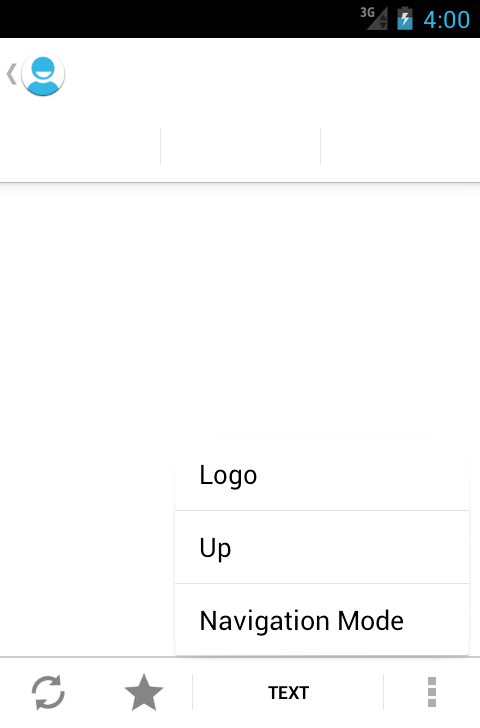
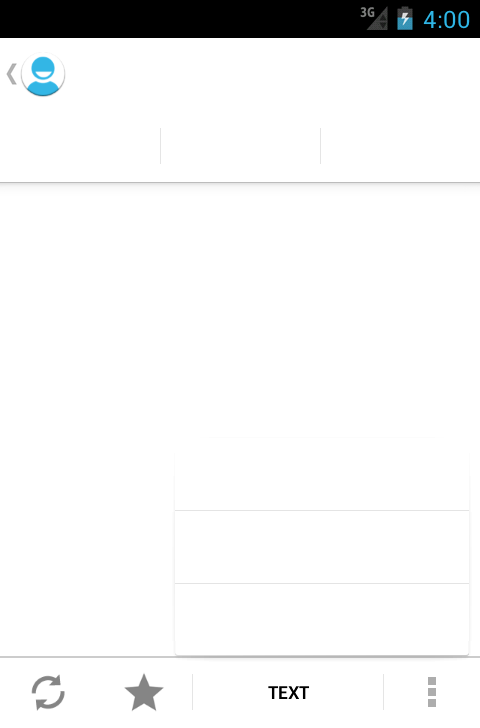
support for changing popup text color

Changed region(s): [[0.4062, 0.8462, 0.8438, 0.8764], [0.4062, 0.6346, 0.5312, 0.6648], [0.4062, 0.7253, 0.4688, 0.7857]]

diff --git a/src/html/index.html b/src/html/index.html
@@ -424,6 +424,7 @@
         'tabTextColor': '#000000',
       	'secondaryColor':'#D6D6D6',
       	'tertiaryColor':'#F2F2F2',
+        'popupTextColor': '#000000',
       	'accentColor':'#33B5E5',
       	'actionbarstyle':'solid',
       	'cabBackColor':'#FFFFFF',
@@ -437,6 +438,7 @@
         'tabTextColor': '#ffffff',
       	'secondaryColor':'#151515',
       	'tertiaryColor':'#303030',
+        'popupTextColor': '#ffffff',
       	'accentColor':'#33B5E5',
       	'actionbarstyle':'transparent',
       	'cabBackColor':'#002E3E',
@@ -450,6 +452,7 @@
         'tabTextColor': '#ffffff',
       	'secondaryColor':'#555555',
       	'tertiaryColor':'#303030',
+        'popupTextColor': '#ffffff',
       	'accentColor':'#33B5E5',
       	'actionbarstyle':'solid',
       	'cabBackColor':'#002E3E',
@@ -505,6 +508,7 @@
         var neutralPressed = values['neutralPressed'];
         var abTextColor = values['abTextColor'];
         var tabTextColor = values['tabTextColor'];
+        var popupTextColor = values['popupTextColor'];
         
         if (baseThemeSetting == null) {
         	//console.log('theme null');
@@ -547,6 +551,7 @@
         	'actionbar_base':((baseTheme == 'light_dark') ? '.Light' : ((baseTheme == 'light') ? '.Light' : '')),
           'actionbar_text_color': abTextColor.color,
           'tab_text_color': tabTextColor.color,
+          'popup_text_color': popupTextColor.color,
         	'inverse_attrs':inverseAttrs,
         	'inverse_attrs_sherlock':inverseAttrsSherlock
         };
@@ -805,6 +810,7 @@
 
       var abTextColor = values['abTextColor'].color;
       var tabTextColor = values['tabTextColor'].color;
+      var popupTextColor = values['popupTextColor'].color;
 			
 			tmpCtxAB.save();
 			tmpCtxAB.globalCompositeOperation = 'source-over';
@@ -888,6 +894,11 @@
       outCtx.fillText("TAB 1", 56, 153);
       outCtx.fillText("TAB 2", 216, 153);
       outCtx.fillText("TAB 3", 377, 153);
+      outCtx.fillStyle = popupTextColor;
+      outCtx.font = "26px sans-serif";
+      outCtx.fillText("Navigation Mode", 201, 629);
+      outCtx.fillText("Up", 201, 556);
+      outCtx.fillText("Logo", 201, 483);
       outCtx.restore();
 
 
@@ -997,6 +1008,11 @@
             title: 'Popup color',
             helpText: 'Overflow menu, submenu and spinner panel background.',
             defaultValue: DEFAULT_COLORS_LIGHT['tertiaryColor']
+          }),
+          new studio.forms.ColorField('popupTextColor', {
+            title: 'Popup text color',
+            helpText: 'Overflow menu, submenu and spinner panel foreground.',
+            defaultValue: DEFAULT_COLORS_LIGHT['popupTextColor']
           }),
           new studio.forms.ColorField('accentColor', {
             title: 'Accent color',
